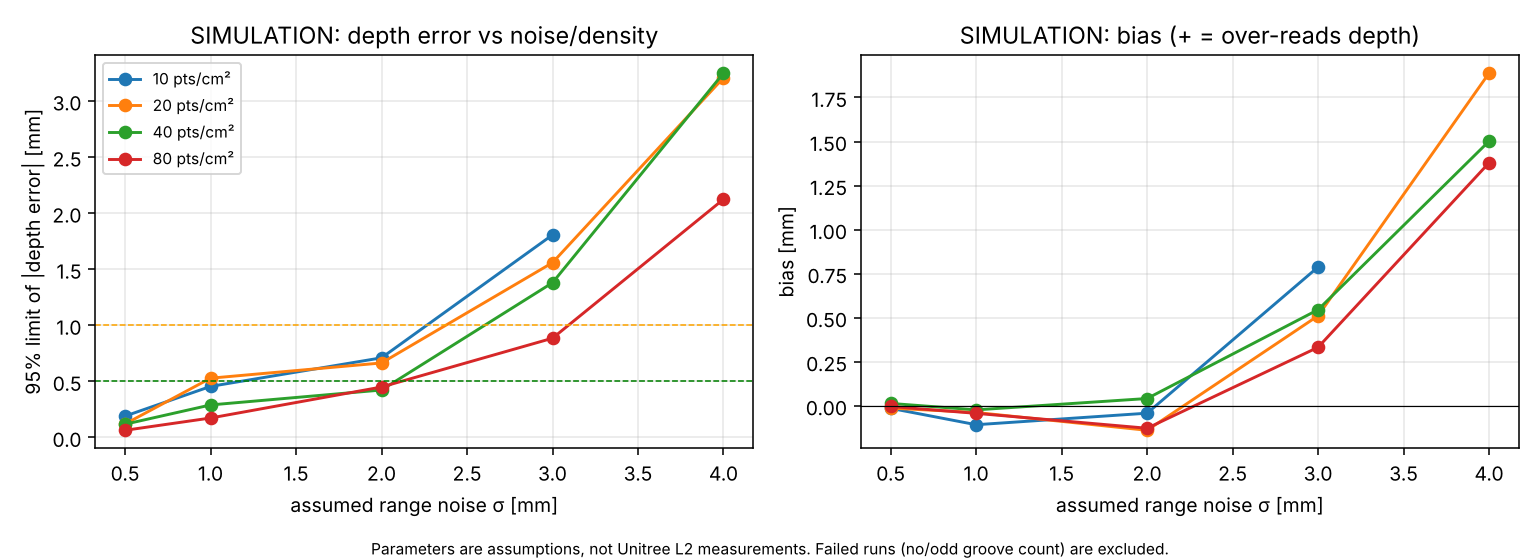
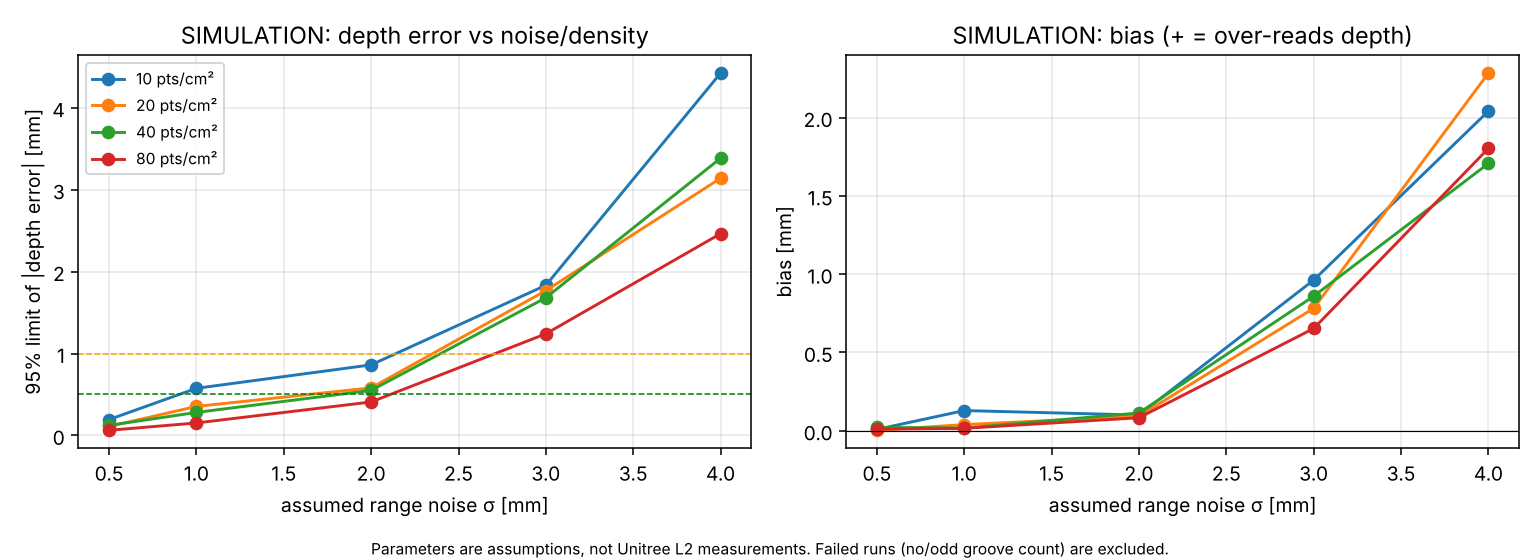
M2 docs, demo script, refreshed simulation sensitivity results
Claude-Session: https://claude.ai/code/session_01FtAqaxATijS7UqYAoo1ryh

diff --git a/scripts/make_sim_results_doc.py b/scripts/make_sim_results_doc.py
@@ -1,0 +1,14 @@
+#!/usr/bin/env python3
+"""Regenerate docs/SIMULATION_RESULTS.md table from a sweep CSV (SIMULATION ONLY)."""
+import csv, sys
+src = sys.argv[1] if len(sys.argv) > 1 else "docs/results/sim_sweep.csv"
+rows = list(csv.DictReader(open(src)))
+def f(r, k): return f"{float(r[k]):+.2f}" if r.get(k) else "-"
+L = ["| σ (mm) | pts/cm² | runs ok/failed | bias (mm) | SD (mm) | 95% limit of \\|error\\| (mm) | within ±0.5 | within ±1.0 |", "|---|---|---|---|---|---|---|---|"]
+for r in rows:
+    ok = f"{r['n_ok']}/{r['n_failed']}"
+    if r.get("loa95_mm"):
+        L.append(f"| {r['noise_mm']} | {float(r['density_per_cm2']):g} | {ok} | {f(r,'bias_mm')} | {float(r['std_mm']):.2f} | {float(r['loa95_mm']):.2f} | {float(r['within_0p5']):.0%} | {float(r['within_1p0']):.0%} |")
+    else:
+        L.append(f"| {r['noise_mm']} | {float(r['density_per_cm2']):g} | {ok} | - | - | - | - | - |")
+print("\n".join(L))

diff --git a/docs/SIMULATION_RESULTS.md b/docs/SIMULATION_RESULTS.md
@@ -5,42 +5,47 @@ point density. They describe what the **algorithms** can do if a sensor delivere
 They say **nothing** about what the Unitree L2 actually delivers - that must be measured (`docs/SCANNING_PROCEDURE.md`).
 
 Setup: passenger-size tread patch (R = 300 mm, 4 longitudinal grooves 10-12 mm wide × 8.0 mm deep, shoulder lateral grooves 6 mm × 7 mm, 4 mm crown,
-sensor 0.6 m away, frontal view), Gaussian range noise along each ray, ray-cast self-occlusion, 4 random seeds per row, ground truth depth 8.0 mm.
+sensor 0.6 m away, frontal view), Gaussian range noise along each ray (also on clutter points), ray-cast self-occlusion, 4 random seeds per row,
+ground truth depth 8.0 mm, **single scan** (M1 pipeline, current code incl. groove-masked reference refinement).
 Reproduce: `treadlidar sweep --out docs/results --noise-mm 0.5 1 2 3 4 --density 10 20 40 80 --seeds 4`.
 
 Error = measured − true groove depth over all grooves and seeds. "runs failed" = analysis error or wrong groove count (those runs are excluded - so rows with failures flatter the statistics).
 
 | σ (mm) | pts/cm² | runs ok/failed | bias (mm) | SD (mm) | 95% limit of \|error\| (mm) | within ±0.5 | within ±1.0 |
 |---|---|---|---|---|---|---|---|
-| 0.5 | 10 | 4/0 | -0.01 | 0.09 | 0.19 | 100% | 100% |
-| 0.5 | 20 | 4/0 | -0.01 | 0.05 | 0.12 | 100% | 100% |
-| 0.5 | 40 | 4/0 | +0.01 | 0.05 | 0.12 | 100% | 100% |
-| 0.5 | 80 | 4/0 | -0.00 | 0.03 | 0.06 | 100% | 100% |
-| 1.0 | 10 | 4/0 | -0.11 | 0.18 | 0.46 | 100% | 100% |
-| 1.0 | 20 | 4/0 | -0.04 | 0.25 | 0.53 | 88% | 100% |
-| 1.0 | 40 | 4/0 | -0.02 | 0.14 | 0.29 | 100% | 100% |
-| 1.0 | 80 | 4/0 | -0.04 | 0.07 | 0.17 | 100% | 100% |
-| 2.0 | 10 | 4/0 | -0.04 | 0.34 | 0.71 | 94% | 100% |
-| 2.0 | 20 | 4/0 | -0.14 | 0.27 | 0.66 | 81% | 100% |
-| 2.0 | 40 | 4/0 | +0.04 | 0.19 | 0.42 | 100% | 100% |
-| 2.0 | 80 | 4/0 | -0.13 | 0.16 | 0.45 | 100% | 100% |
-| 3.0 | 10 | 1/3 | +0.79 | 0.52 | 1.81 | 50% | 50% |
-| 3.0 | 20 | 3/1 | +0.51 | 0.53 | 1.56 | 42% | 92% |
-| 3.0 | 40 | 4/0 | +0.55 | 0.43 | 1.38 | 56% | 94% |
-| 3.0 | 80 | 4/0 | +0.33 | 0.28 | 0.88 | 75% | 100% |
-| 4.0 | 10 | 0/4 | - | - | - | - | - |
-| 4.0 | 20 | 3/1 | +1.89 | 0.67 | 3.21 | 0% | 8% |
-| 4.0 | 40 | 4/0 | +1.50 | 0.89 | 3.25 | 6% | 25% |
-| 4.0 | 80 | 4/0 | +1.38 | 0.38 | 2.12 | 0% | 12% |
+| 0.5 | 10 | 4/0 | +0.01 | 0.09 | 0.19 | 100% | 100% |
+| 0.5 | 20 | 4/0 | +0.00 | 0.05 | 0.11 | 100% | 100% |
+| 0.5 | 40 | 4/0 | +0.02 | 0.05 | 0.12 | 100% | 100% |
+| 0.5 | 80 | 4/0 | +0.01 | 0.03 | 0.06 | 100% | 100% |
+| 1.0 | 10 | 3/1 | +0.13 | 0.23 | 0.58 | 100% | 100% |
+| 1.0 | 20 | 4/0 | +0.04 | 0.16 | 0.35 | 100% | 100% |
+| 1.0 | 40 | 4/0 | +0.02 | 0.13 | 0.28 | 100% | 100% |
+| 1.0 | 80 | 4/0 | +0.02 | 0.07 | 0.15 | 100% | 100% |
+| 2.0 | 10 | 4/0 | +0.10 | 0.39 | 0.86 | 88% | 100% |
+| 2.0 | 20 | 4/0 | +0.09 | 0.25 | 0.58 | 94% | 100% |
+| 2.0 | 40 | 4/0 | +0.11 | 0.22 | 0.55 | 94% | 100% |
+| 2.0 | 80 | 4/0 | +0.08 | 0.17 | 0.41 | 100% | 100% |
+| 3.0 | 10 | 2/2 | +0.96 | 0.44 | 1.83 | 0% | 62% |
+| 3.0 | 20 | 4/0 | +0.78 | 0.50 | 1.77 | 19% | 62% |
+| 3.0 | 40 | 4/0 | +0.86 | 0.42 | 1.68 | 19% | 75% |
+| 3.0 | 80 | 4/0 | +0.65 | 0.30 | 1.24 | 25% | 81% |
+| 4.0 | 10 | 1/3 | +2.04 | 1.21 | 4.42 | 0% | 25% |
+| 4.0 | 20 | 4/0 | +2.28 | 0.44 | 3.14 | 0% | 0% |
+| 4.0 | 40 | 4/0 | +1.71 | 0.86 | 3.38 | 12% | 12% |
+| 4.0 | 80 | 4/0 | +1.80 | 0.34 | 2.46 | 0% | 0% |
 
 ![sweep](results/sim_sweep.png)
 
 ## What this tells us (simulation only)
-* With σ ≤ 1 mm the pipeline recovers 8 mm depth with a 95 % error limit of about 0.1-0.5 mm; at σ = 2 mm, about 0.4-0.7 mm. So ±1.0 mm needs roughly **σ ≲ 2-3 mm
-  with ≥ 20-40 effective points/cm² accumulated on the tread**, and ±0.5 mm needs about **σ ≲ 1-2 mm with ≥ 40 pts/cm²** - *if* the real sensor has no
-  systematic bias and the surface behaves like the model.
-* Beyond σ ≈ 3 mm the method degrades quickly: depth is over-read (positive bias; I have not isolated the cause - plausibly noise inflating apparent groove contrast after thresholding, unverified) and runs start to fail.
-* Averaging more points helps (compare 10 → 80 pts/cm²) but only for random noise; the real L2 will add systematic effects the simulation does not have.
+* **σ ≤ 1 mm:** 95 % of single-groove errors stay within about 0.1-0.35 mm (one run failed at 10 pts/cm², where the limit rises to 0.58 mm). Both ±0.5 and ±1.0 mm targets are met in simulation.
+* **σ = 2 mm:** about 0.4-0.9 mm (0.41-0.58 mm at ≥ 20 pts/cm²): ±1.0 mm is met, ±0.5 mm is borderline.
+* **σ = 3 mm:** 1.2-1.8 mm with a systematic **over-read of +0.65 to +0.96 mm**; **σ = 4 mm:** 2.5-4.4 mm, +1.7 to +2.3 mm. Neither target is met, and runs start to fail (the
+  tool then warns/raises instead of returning a number).
+* So, *if* the real sensor had no systematic bias and the surface behaved like the model: **±1.0 mm needs about σ ≲ 2 mm with ≥ 20 pts/cm²; ±0.5 mm needs about σ ≲ 1 mm (≥ 20 pts/cm²)**.
+* The over-read at high noise is positive; I have not isolated the cause (plausibly noise inflating apparent groove contrast after thresholding). Compared with an earlier
+  run of this study (before the groove-masked reference refinement) the high-noise over-read grew slightly (e.g. σ = 3, 40 pts/cm²: +0.55 → +0.86 mm) while σ ≤ 2 mm results are unchanged; shallow
+  grooves (2-5 mm) became measurable, which is the trade made.
+* Averaging more points helps random noise only; the real L2 will add systematic effects the simulation lacks. M2 (`docs/FULL_TIRE.md`) shows that accumulating many views also makes shallow grooves detectable.
 
 ## Decisive unknowns for the real L2 (to be measured)
 range noise on black rubber at 0.4-1.0 m; range bias vs. incidence angle/intensity; beam footprint at the working distance (mixed pixels at groove edges); achievable accumulated

diff --git a/docs/FULL_TIRE.md b/docs/FULL_TIRE.md
@@ -1,0 +1,60 @@
+# Milestone 2 - full-tire reconstruction and automated measurement
+
+**Status: implemented and tested on SIMULATED data only (23 tests in `tests/test_fulltire.py`). The feasibility gate of
+Milestone 1 (real L2 + physical tire + reference gauge) has NOT been passed. Treat every M2 output as unvalidated until
+`treadlidar validate --origin real` has produced an A/B verdict for your setup.** The limit check below is an engineering aid,
+not an inspection result.
+
+## What it does
+```
+fixed sensor, wheel turned in steps (marked with tape)         e.g. 18 views x 20 deg
+  -> per-view segmentation (M1)
+  -> ONE cylinder frame fitted on the pooled tire points of all views (same axis/centre/radius in every view)
+  -> every view analysed in that frame (reference surface, depth map D)
+  -> stitch_views: merge depth maps in tire-fixed arc coordinates u = s - R*angle (mod circumference)
+  -> FullTireMap (360 deg x tread width depth map, uncovered cells stay empty)
+  -> run_protocol: depth of every longitudinal groove at N positions around the tire + wear/uneven-wear metrics + limit check
+  -> closed-ring mesh (PLY/STL/OBJ), unrolled depth-map figure, protocol JSON/CSV
+```
+Why a common frame: a ~30 deg arc determines the cylinder centre/radius only to a few mm, so per-view fits shift each view's
+arc origin; pooling all views (same physical cylinder) removes that scatter. `s = 0` is defined as the direction from the axis towards
+the sensor, a fixed physical direction. Merging depth maps (not points) keeps each view's own reference surface.
+
+## Procedure
+1. Sensor on a rigid tripod, 0.4-0.8 m from the tread, wheel on a stand or jacked up (it must be free to rotate). The sensor must not move.
+2. Mark the wheel with tape. Turn it by a fixed step (default 20 deg; the arc seen by one view is ~35 deg for a 0.18 m window, so keep **>= 25 %
+   overlap**, i.e. step <= ~25 deg) and record each view (`record_l2.launch.py ... wheel_angle_deg:=20`). Positive angle = **the tread at the sensor moves downward**.
+3. Measure the circumference with a tape at the tread centre (strongly recommended): a short arc cannot give it to better than cm.
+4. Run: `treadlidar fulltire data/raw/TIRE_001_SCAN_*.npy --out data/output/t1 --circumference-mm 1885 --axis-hint 0,1,0 --tread-half-width-mm 85 --expected-grooves 4`
+   Angles are read from `wheel_angle_deg` in the `.sensor.json` sidecars (or `--angles a0,a1,...`; `--blind-step-deg` if only the step is known).
+
+## Alignment between views
+Nominal wheel angles are refined by correlating the circumferential (lateral-groove) depth profile of each new view with the map so far,
+**only** if the overlap is >= 60 mm, the correlation >= 0.8 and the peak is clearly unique; otherwise the nominal angle is kept and the view is
+flagged. In simulation (variable pitch, +-1 deg = +-5 mm angle jitter) the remaining misalignment is <= 2 cells (6 mm). Uniform-pitch tread
+is ambiguous (the correlation repeats every pitch): the search window is limited to +-10 mm and a runner-up check applies.
+Longitudinal-groove depth does not depend on circumferential alignment; alignment mainly affects where around the tire a value is attributed (6 mm ~ 1 deg).
+
+## Protocol output (`*_fulltire_protocol.json`)
+Per groove x position: depth (median over a +-4 mm window and the central half of the groove width), number of cells, `measured` flag
+(missing = < 50 % cells covered; **never interpolated**). Summary: min/mean/median/max/std, per-groove min/mean/max/range-around-the-tire,
+max across-tread range (uneven wear), shoulder-minus-centre and left-minus-right wear, coverage (uncovered arc in mm).
+
+### Limit check (default limit 1.6 mm - configurable, not legal advice)
+* No `--uncertainty-mm`: reports PASS/FAIL **marked unvalidated**. With a validated uncertainty `u` (from `validate` on real data):
+  PASS if `min - u >= limit`, FAIL if `min + u < limit`, else INDETERMINATE.
+* **Guards that downgrade PASS to INDETERMINATE** (FAIL is never softened): groove count not verified (`--expected-grooves`), detected count differs
+  from the expected count, or the groove-detection floor is more than half the limit. Reason: the most dangerous failure is a *missed* worn groove.
+
+## What simulation says (assumed sensor, NOT the L2)
+* Uniform 8 mm tire, sigma 1 mm, 40 pts/cm2, 18 views: 48 measurements, mean 8.03 mm (true 8.0), per-position scatter (SD) 0.22 mm.
+* Unevenly worn 3/5/6/4 mm grooves recovered within 0.5 mm; near-limit grooves (1.6/2.0/2.5/3.0 mm) at sigma 0.5 mm read 1.49/1.86/2.51/3.02,
+  at sigma 1.0 mm about 0.1-0.3 mm low. Accumulating 18 views is what makes these shallow grooves detectable; a single view at sigma 1 mm is not enough for 2-3 mm grooves.
+* Real tires differ in ways the simulator does not model (sipes, tread-block wear, rubber reflectance, mixed pixels at groove edges).
+
+## Limitations
+* A tire on a vehicle cannot be rotated in the contact patch: the contact area and inner side stay uncovered and are reported as such.
+* Requires a stationary, rigid sensor and a wheel angle known to ~1-2 deg (refinement helps on patterned tread only).
+* Mesh is a height field of the tread band (open at the shoulders); sidewalls are not reconstructed.
+* Outer diameter in the report is C/pi from the supplied circumference, not an independent measurement.
+* Moving-vehicle scanning (continuous rolling) is **not** implemented; `lio/README.md` lists the prepared interfaces.

diff --git a/README.md b/README.md
@@ -7,12 +7,13 @@ Unitree L2 can resolve tire tread and measure its depth to ±0.5-1.0 mm. The sof
 
 | Item | Status |
 |---|---|
-| Pipeline (segment → cylinder fit → reference surface → height-map → grooves → depth → mesh → PLY/STL/OBJ/JSON/CSV) | **implemented, 70 automated tests pass** (`pytest -q`, ~30 s, no sensor) |
+| Pipeline (segment → cylinder fit → reference surface → height-map → grooves → depth → mesh → PLY/STL/OBJ/JSON/CSV) | **implemented, 95 automated tests pass** (`pytest -q`, ~90 s, no sensor) |
 | Validation module (error/MAE/RMSE/SD/bias/CI, repeatability, A/B/C verdict), point-density/resolvability, sensor characterisation tools | implemented + tested on synthetic data |
 | **Results on real Unitree L2 data** | **none yet - no sensor or physical tire was available. The verdict for the L2 is `NOT_ASSESSED`/pending.** |
 | Simulation-based sensitivity (what noise/density *would* be needed) | done: `docs/SIMULATION_RESULTS.md` (assumed sensor parameters, not L2 measurements) |
 | L2 driver / ROS 2 recorder / Point-LIO bridge | written from the upstream READMEs; **untested on hardware** |
 | Open3D interactive viewer | written, geometry builders unit-tested; **window/picking untested** (no GL in the dev container); headless matplotlib figures are tested |
+| **M2: full 360° tire** (rotating wheel, fixed sensor): stitching, automated measurement protocol, wear metrics, limit check with guards, closed-ring mesh | **implemented, tested on simulated data only** - see `docs/FULL_TIRE.md`; unvalidated until real data passes M1 |
 | Moving-vehicle scanning | **not attempted** (by design); interfaces prepared (`lio/README.md`) |
 
 The feasibility result (A suitable / B limited / C insufficient) can only be produced by running `treadlidar validate ... --origin real`
@@ -32,6 +33,15 @@ treadlidar validate data/raw/TIRE_001_SCAN_0*.npy --reference data/reference/TIR
 treadlidar view data/raw/TIRE_001_SCAN_001.npy        # Open3D: 1 raw, 2 filtered, 3 mesh, 4 grooves, +/- point size, P pick&measure
 ```
 
+## Full tire (Milestone 2, simulated data only so far)
+```bash
+bash scripts/run_fulltire_demo.sh                      # 18 simulated views of a rotating wheel -> data/output/fulltire_demo
+treadlidar fulltire data/raw/TIRE_001_SCAN_*.npy --out data/output/t1 --circumference-mm 1885 --axis-hint 0,1,0 \
+    --tread-half-width-mm 85 --expected-grooves 4      # angles from the .sensor.json sidecars (wheel_angle_deg)
+```
+Outputs: `*_fulltire_mesh.ply/.stl/.obj`, `*_fulltire_protocol.json/.csv` (depth of every groove at N positions around the tire, wear metrics,
+limit check), `*_fulltire_unrolled.png`. The limit check never reports PASS if the groove count is unverified (`docs/FULL_TIRE.md`).
+
 ## Workflow ↔ commands
 load/preview `info`,`view` · register `analyze` (`--register icp` for several files) · segment / reconstruct / analyze / measure `analyze`,`measure` ·
 accuracy `validate` · export (PLY points+mesh, STL, OBJ, JSON, CSV, PNG) `analyze`. Configuration: `config/pipeline.yaml`, sensor/calibration parameters: `config/sensor_l2.yaml`.
@@ -48,7 +58,7 @@ src/treadlidar/{data_acquisition,preprocessing,registration,tire_segmentation,re
                 measurement,validation,export,calibration,simulation,viewer}
 data/{raw,rosbag,processed,reference,output}
 ```
-Docs: INSTALL · SCANNING_PROCEDURE · CALIBRATION · VALIDATION · ARCHITECTURE (design decisions, defects found, limitations) · LIO_INTEGRATION ·
+Docs: FULL_TIRE · INSTALL · SCANNING_PROCEDURE · CALIBRATION · VALIDATION · ARCHITECTURE (design decisions, defects found, limitations) · LIO_INTEGRATION ·
 LICENSES · SIMULATION_RESULTS · TROUBLESHOOTING.
 
 ## Licensing

diff --git a/docs/ARCHITECTURE.md b/docs/ARCHITECTURE.md
@@ -42,10 +42,26 @@ export (PLY/STL/OBJ/JSON/CSV)   validation (accuracy, repeatability, A/B/C)   vi
 5. `np.linalg.svd` full_matrices default built an N×N matrix (3 GB for 20 k points) → fixed.
 6. A simulator artifact (noise-free sidewall clutter) made the fit lock on to a perfect plane → clutter now carries range noise, scaled with density.
 
+## Milestone 2 additions (see `docs/FULL_TIRE.md`)
+`fulltire/`: `workflow.analyze_rotating_wheel` (pooled frame fit -> per-view analysis) -> `stitch.stitch_views` (depth maps merged in tire-fixed arc
+coordinates, conservative correlation refinement) -> `protocol.run_protocol` (automated measurements, wear metrics, guarded limit check) ->
+`mesh.fulltire_mesh` (closed ring, manifold) -> `plots`/export.
+
+Further defects found and fixed while building M2 (all caught by tests/diagnostics, kept for transparency):
+7. `s = 0` was the mean of the surviving points, which depends on occlusion/density -> now the fixed direction axis->sensor.
+8. Per-view cylinder fits of a short arc disagree on the centre by mm -> one pooled cylinder for all views of a fixed sensor.
+9. The wheel-angle sign convention was inverted between the simulator and the stitcher (fitted +s points down, simulator +s up). Symptom: scattered 6-20 mm
+   misalignments that I first mis-attributed to occlusion physics; truth comparison (`s_fit = -s_true`, residual 0.09 mm) found it.
+10. Shallow grooves (2-5 mm at sigma 1 mm) pulled the reference down (they were accepted as "land") and the groove count failed -> groove-masked
+    refit of the reference (+ a tighter first-pass tolerance). Bias on 2-5 mm grooves went from "undetectable" to within ~0.2 mm.
+11. The limit check could return PASS while a worn groove was missed (3 of 4 grooves found at 1.6-3 mm) -> lower protocol detection floor, `expected_grooves`,
+    and guards that withhold PASS.
+
 ## Known limitations
 * **No real L2 data has been processed.** All accuracy numbers in this repo come from simulation with *assumed* sensor parameters.
 * Simulator omits beam-footprint mixed pixels, multipath, intensity-dependent bias, registration error → optimistic for narrow grooves.
 * Axis search assumes an (approximately) level vehicle unless `--axis-hint` is given; very short arcs (< ~20°) make the radius undeterminable (reported).
 * ICP on a tread patch is poorly constrained along the circumference (a cylinder slides around its axis) — do not rely on it for sub-mm registration; use fixed pose or LIO.
 * Groove *width* is approximate (cell-size limited); *depth* is the validated quantity. Sipes are not resolved.
-* Only one patch (a partial arc) is analysed; full-circumference unwrapping is the moving-vehicle milestone.
+* A single scan analyses one partial arc; the full circumference needs the rotating-wheel M2 workflow (stationary sensor, wheel turned in steps).
+* Near the legal limit (~1.6 mm) depth is only a couple of times the per-cell noise at sigma ~ 1 mm: this is the hardest regime and must be validated on tires worn to ~1.6 mm before any limit check is trusted.

diff --git a/docs/INSTALL.md b/docs/INSTALL.md
@@ -4,7 +4,7 @@
 
 | Part | Requirement | Status |
 |---|---|---|
-| Analysis package `treadlidar` | Python >= 3.9 (developed/tested on **3.13**), numpy, scipy, matplotlib, pyyaml. Pure Python, **no C++ build**. | tested (70 tests) |
+| Analysis package `treadlidar` | Python >= 3.9 (developed/tested on **3.13**), numpy, scipy, matplotlib, pyyaml. Pure Python, **no C++ build**. | tested (95 tests) |
 | Viewer | `pip install open3d` + a display with OpenGL/EGL (`libegl1`, `libgl1`) | **untested here** (no GL in the dev container) |
 | L2 driver | **Ubuntu 20.04** + **ROS 2 Foxy** (or ROS1 Noetic), PCL 1.10, CMake/C++ toolchain | versions are those verified in the `unilidar_sdk2` README; **untested here** |
 | Point-LIO (moving sensor) | Ubuntu 20.04 + **ROS1 Noetic**, Eigen, pcl-conversions (GPL-2.0) | **untested here**; not needed for the stationary milestone |
@@ -18,7 +18,7 @@ git clone <repo> && cd Tire
 python3 -m venv .venv && . .venv/bin/activate
 pip install -e ".[test]"        # numpy scipy matplotlib pyyaml pytest
 pip install open3d              # optional viewer
-pytest -q                       # 70 tests, ~30 s, no sensor needed
+pytest -q                       # 95 tests, ~90 s, no sensor needed
 bash scripts/run_demo.sh        # simulated end-to-end demo -> data/output/demo
 ```
 

diff --git a/docs/SCANNING_PROCEDURE.md b/docs/SCANNING_PROCEDURE.md
@@ -45,3 +45,9 @@ See `docs/VALIDATION.md` for how RESULT A/B/C is decided and what is reported.
 * Sensor frame (`unilidar_lidar`): as published by the driver.
 * Tire frame (`treadlidar`): fitted cylinder axis = **w**; **s** = arc length along the circumference; **dr** = radial height (grooves negative).
   +w points to the **viewer's right** when looking from the sensor at the tire (`view_up` = +Z by default).
+
+## 5. Full-tire scans (Milestone 2)
+Wheel free to rotate (stand/jack), sensor fixed, tape mark on the tire. Record one view every 20 deg (`wheel_angle_deg:=<angle>`; positive = tread at the sensor
+moves downward), >= 25 % overlap between neighbouring views, 18 views for 360 deg. Measure the circumference with a tape at the tread centre. Reference depths:
+digital gauge at every groove at, say, 8 positions (e.g. every 45 deg), recorded per groove/position; use them to validate the protocol output
+(`measurements.csv`) the same way as for M1. See `docs/FULL_TIRE.md`.
